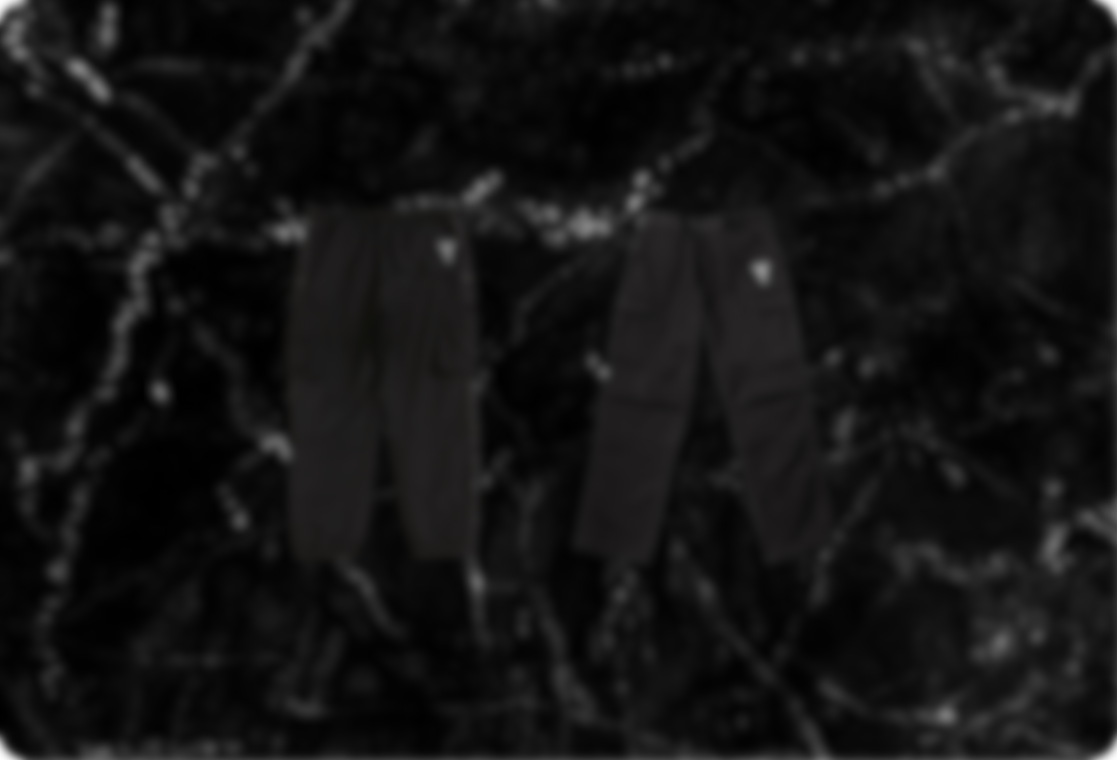
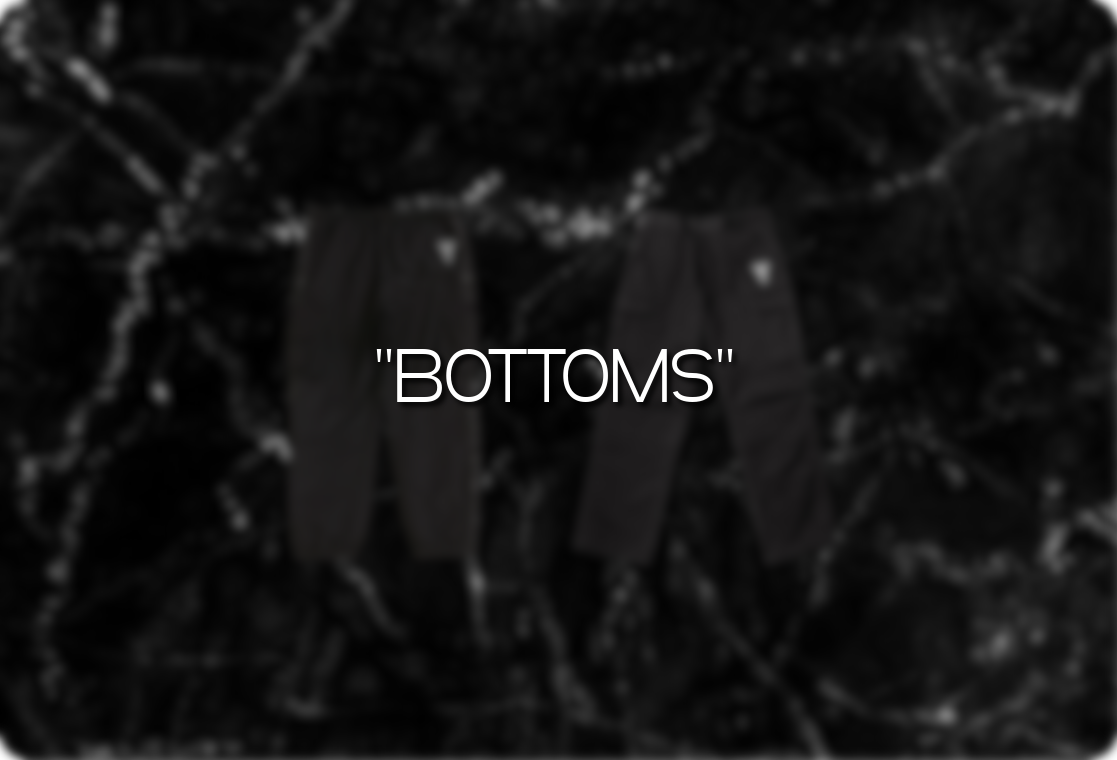
Alles

Changed region(s): [[0.3348, 0.4539, 0.6697, 0.5447]]

diff --git a/public/Projektarbeit.css b/public/Projektarbeit.css
@@ -132,7 +132,7 @@
   /* Products */
   #col-1 {
     width: 50%;
-    height: 60%;
+    height: 75%;
     float: left;
     background-image: url("images/Bottoms-black.png");
     background-repeat: no-repeat;
@@ -141,17 +141,10 @@
     border-top-left-radius: 25px;    /*Rounded Corner top left*/
     border-bottom-left-radius: 25px;   /*Rounded Corner bottom left*/
   }
-
-  #col-1-font { 
-    position: absolute; 
-    top:97%; 
-    left:21.5%; 
-    font-size: 25;
-  }
   
   #col-2 {
     width: 50%;
-    height: 60%;
+    height: 75%;
     float: right;
     background-image: url("images/Tops-black.png");
     background-repeat: no-repeat;
@@ -159,39 +152,11 @@
     border-top-right-radius: 25px;    /*Rounded Corner top right*/
   }
 
-  #col-2-font {
-    position: absolute; 
-    top:97%; 
-    left:72%; 
-    font-size: 25;
-  }
-
-  /*Hover Effekt test*/
-  #col-1-font:hover {
-    flex: 1;
-    font-size: 35px;
-    text-shadow: 0 3px 5px rgba(#000, 0.25);
-    color: white;
-    cursor: pointer;
-    user-select: none;
-    transition: 1.5s ease;
-  }
-
-  #col-2-font:hover {
-    flex: 1;
-    font-size: 35px;
-    text-shadow: 0 3px 5px rgba(#000, 0.25);
-    color: white;
-    cursor: pointer;
-    user-select: none;
-    transition: 1.5s ease;
-  }
-
   /*Our Goal Div*/
   #Goal {
     color: white;
     height: 450;
-    margin-top: 170;
+    margin-top: 230;
     background-color: rgb(50, 50, 50);
     transform: skewY(-11deg);
   }
@@ -313,7 +278,7 @@
   
   /* Responsive layout - makes the two columns/boxes stack on top of each other instead of next to each other, on small screens*/ 
   @media (max-width: 600px) {
-    html, body, pre, a, p, p2, p3, p4, h1, h2, h3, header, ul, article, #col-1, #col-2, #col-1-font, #col-2-font, #Goal, #Goal-text, #Logo, #Packaging, #Package-text, #Package-picture, #SM, #down, #middle, footer {
+    html, body, pre, a, p, p2, p3, p4, h1, h2, h3, header, ul, article, #col-1, #col-2, #Goal, #Goal-text, #Logo, #Packaging, #Package-text, #Package-picture, #SM, #down, #middle, footer {
       width: 100%;
       height: auto;
     }

diff --git a/public/Tops.css b/public/Tops.css
@@ -13,7 +13,8 @@
     h1 {
         color: white;
         font-family: 'Trebuchet MS', 'Lucida Sans Unicode', 'Lucida Grande', 'Lucida Sans', Arial, sans-serif;
-        font-size: 25;
+        font-size: 45;
+        text-align: center;
     }
 
     h2 {
@@ -39,6 +40,7 @@
         color: white;
         font-family: 'Trebuchet MS', 'Lucida Sans Unicode', 'Lucida Grande', 'Lucida Sans', Arial, sans-serif;
         font-size: 18;
+        text-align: center;
     }
 
     p2 {
@@ -128,12 +130,6 @@
         height: 155;
         /*background-color: rgb(78, 78, 78);*/
         background-color: rgb(87, 87, 87); /*Background same as Body*/
-        text-align: left;
-        background-image: url("images/TopsText.png");
-        background-repeat: no-repeat;
-        background-position-x: 15cm;
-        background-position-y: center;
-        background-size: contain;
     }
 
     /*Products Background*/

diff --git a/public/Bottoms.css b/public/Bottoms.css
@@ -13,7 +13,8 @@
     h1 {
         color: white;
         font-family: 'Trebuchet MS', 'Lucida Sans Unicode', 'Lucida Grande', 'Lucida Sans', Arial, sans-serif;
-        font-size: 25;
+        font-size: 45;
+        text-align: center;
     }
 
     h2 {
@@ -39,6 +40,7 @@
         color: white;
         font-family: 'Trebuchet MS', 'Lucida Sans Unicode', 'Lucida Grande', 'Lucida Sans', Arial, sans-serif;
         font-size: 18;
+        text-align: center;
     }
 
     p2 {
@@ -127,12 +129,6 @@
         margin-left: 30;
         height: 155;
         background-color: rgb(87, 87, 87); 
-        text-align: left;
-        background-image: url("images/BottomsText.png");
-        background-repeat: no-repeat;
-        background-position-x: 14cm;
-        background-position-y: center;
-        background-size: contain;
     }
 
     /*Products Background*/

diff --git a/public/Projektarbeit.html b/public/Projektarbeit.html
@@ -41,14 +41,8 @@ We want to deliver high quality clothing for a fair price.</pre>
         <br>
         <!--Bottoms-->
         <a id="col-1" href="Bottoms.html"></a>
-        <div id="col-1-font">
-            <p><a href="Bottoms.html">Bottoms</a></p>
-        </div>
         <!--Tops-->
         <a id="col-2" href="Tops.html"></a>
-        <div id="col-2-font">
-            <p><a href="Tops.html">Tops</a></p>
-        </div>
     </div>
 
     <!--Goal-->

diff --git a/public/Bottoms.html b/public/Bottoms.html
@@ -25,7 +25,7 @@
         <!--Cotton-Text-->
         <article>
             <br>
-            <h1>Bottoms</h1>
+            <h1>"BOTTOMS"</h1>
             <p>100% made out of Cotton in Portugal</p>
         </article>
         

diff --git a/public/Tops.html b/public/Tops.html
@@ -30,7 +30,7 @@
         <!--Cotton-Text-->
         <article>
             <br>
-            <h1>Tops</h1>
+            <h1>"TOPS"</h1>
             <p>100% made out of Cotton in Portugal</p>
         </article>
         
